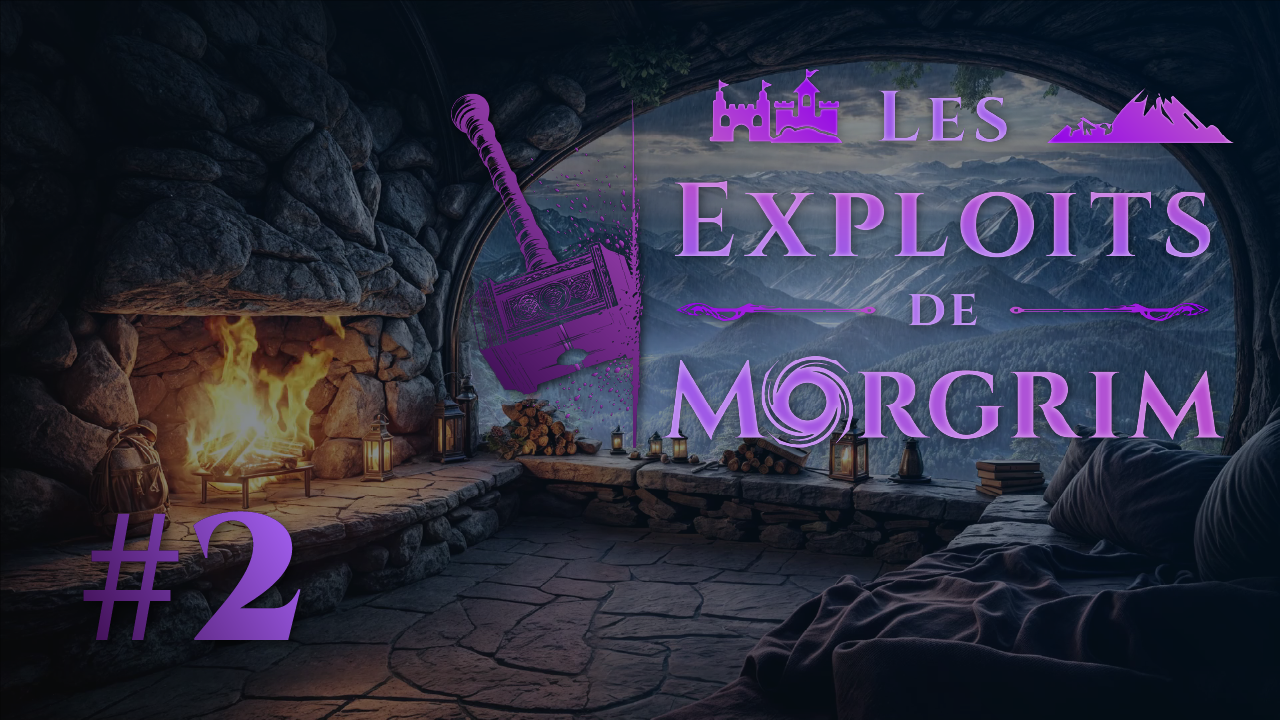
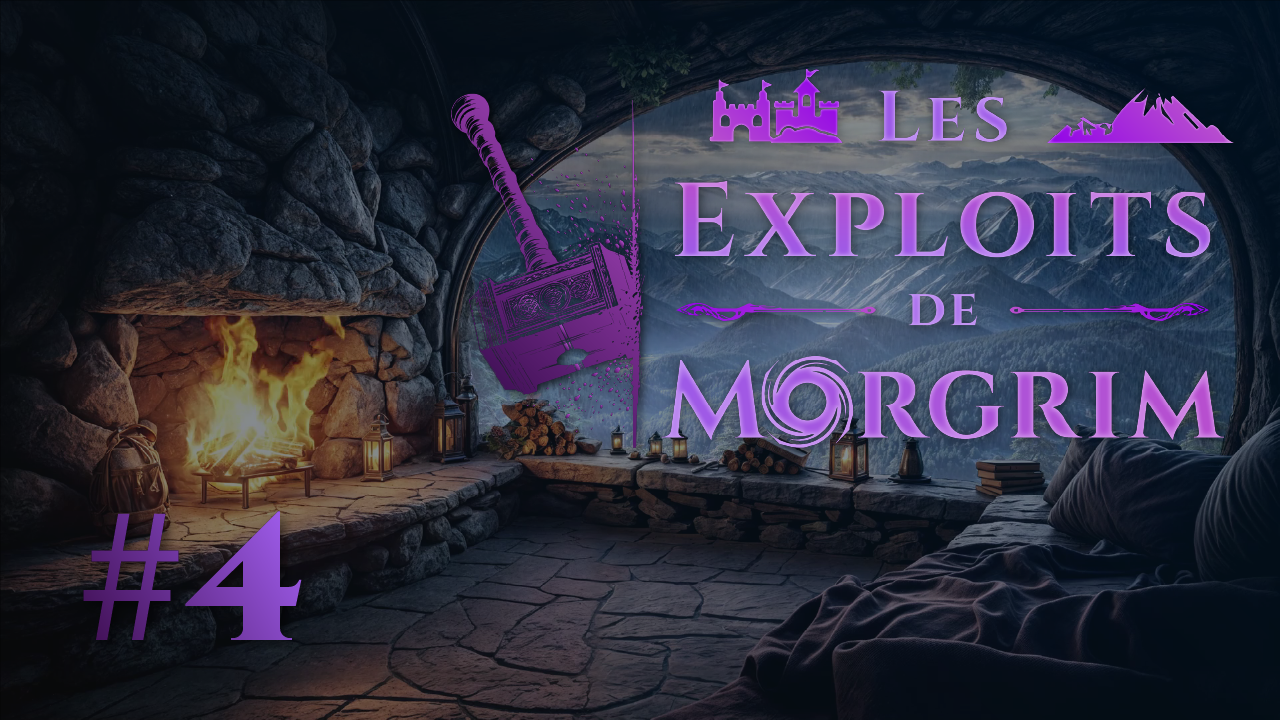
Update of 18.09.2024

Changed region(s): [[0.125, 0.7028, 0.25, 0.8861]]

diff --git a/index.html b/index.html
@@ -564,7 +564,7 @@
                         <p class="myths-and-legends-category">La série en cours…</p>
                         <img class="myths-and-legends-thumbnail" src="/assets/thumbnails/myths-and-legends-les-exploits-de-morgrim-thumbnail.png" alt="Miniature de la série en cours">
                     </a>
-                    <a target="_blank" href="https://youtu.be/MVCYEoXyPMo">
+                    <a target="_blank" href="https://youtu.be/GGyS18QEU30">
                         <p class="myths-and-legends-category">L'un des derniers épisodes sortis…</p>
                         <img class="myths-and-legends-thumbnail" src="/assets/thumbnails/myths-and-legends-video-thumbnail.png" alt="Miniature de l'un des derniers épisodes sortis">
                     </a>
